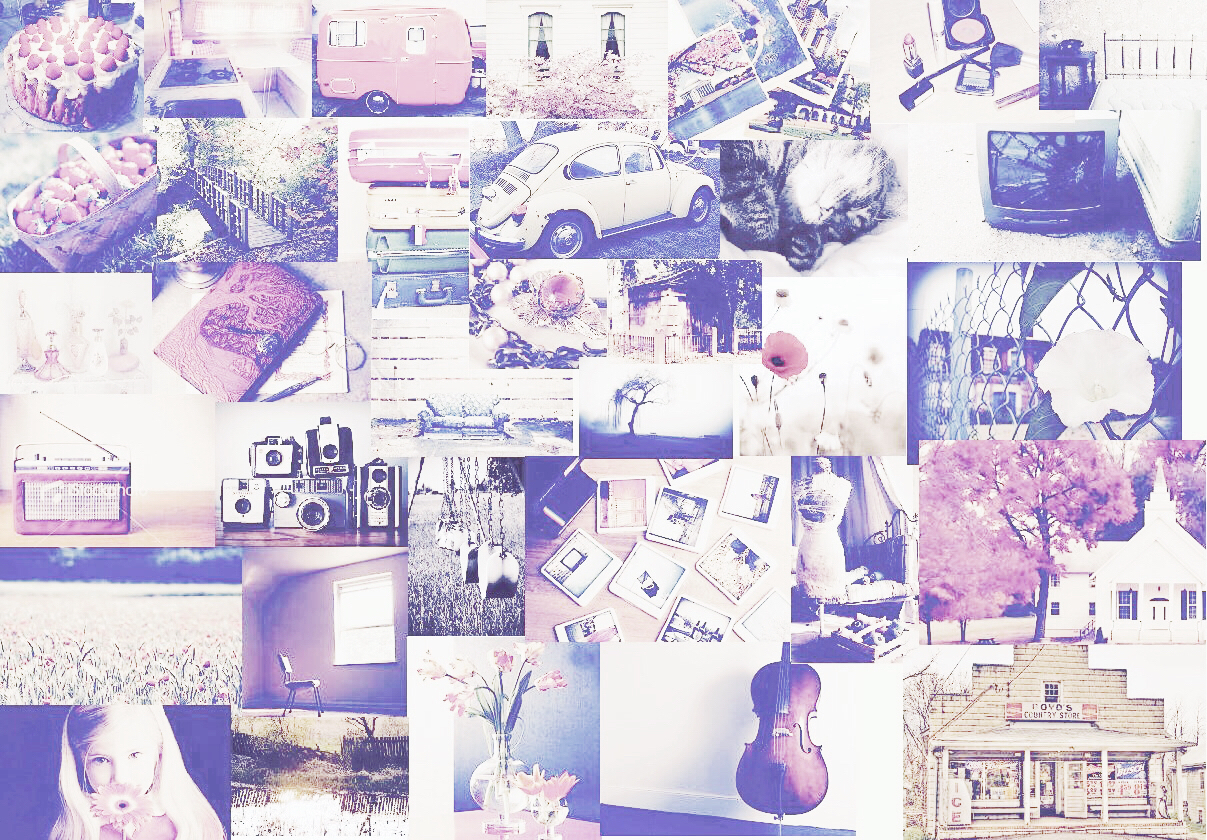
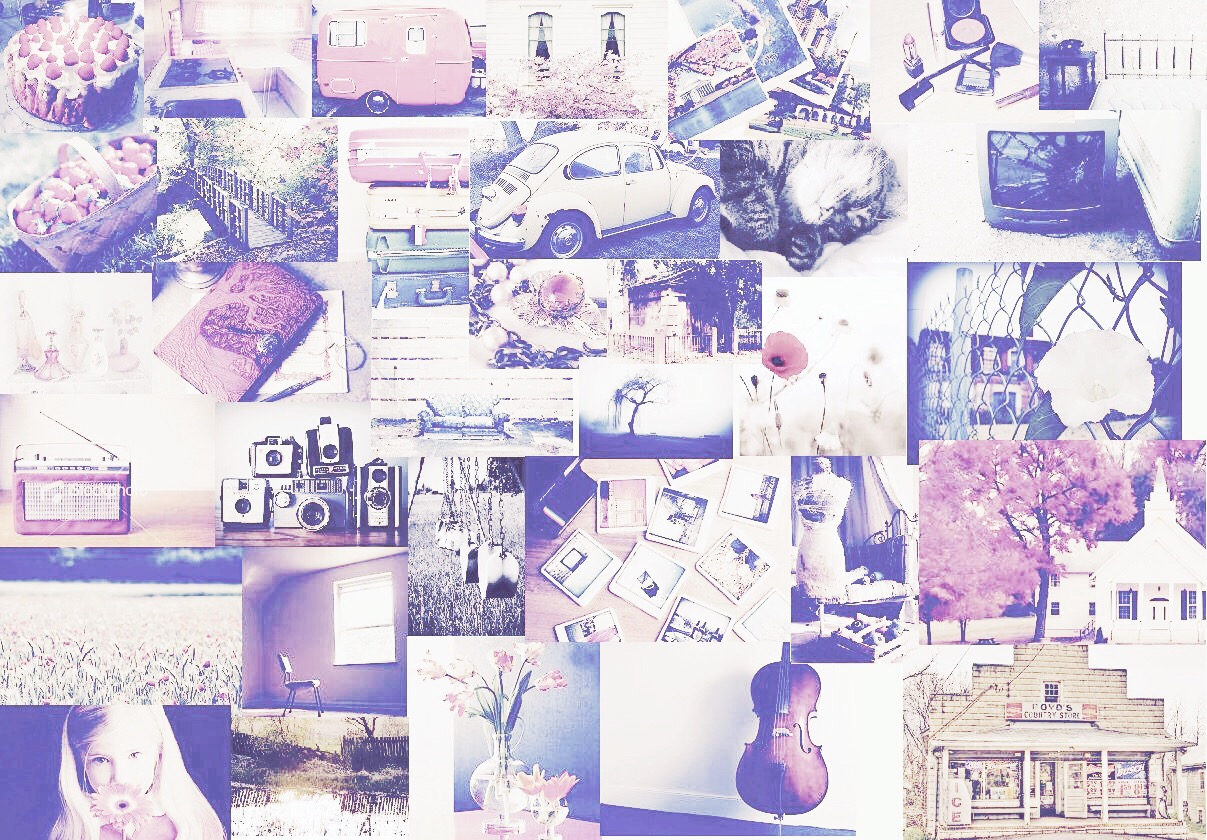
5

diff --git a/main.css b/main.css
@@ -8,5 +8,5 @@ md-toolbar.cs142Project5-toolbar {
 	padding: 0px 12px 0 12px;
 }
 #content {
-	background-image: url(images/background.gif);
+	background-image: url(images/background.jpg);
 }
